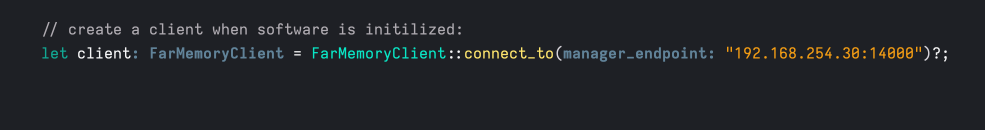
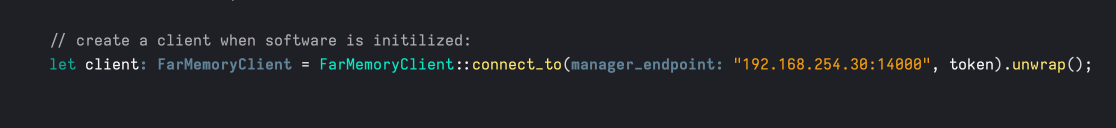
feat(thesis): describe using far memory objects

Changed region(s): [[0.0305, 0.1562, 0.9746, 0.5625]]

diff --git a/src/thesis/content/thesis/main_section/software/mod.rs b/src/thesis/content/thesis/main_section/software/mod.rs
@@ -107,12 +107,16 @@ MANAGER_ENDPOINT - адреса та порт (наприклад: 192.168.254.3
 додавання біліотеки у список залежностей. Для цього в Cargo.toml потрібно додати рядок far-memory = { git = \"https://github.com/nikitavbv/far-memory.git\" }. \
 Після цього, клієнт віддаленої памʼяті створюється викликом FarMemoryClient::new (приклад на зображенні нижче)."),
 
-        // TODO: image does not contain token
         Block::Image(ImageBlock::new("./images/client_init.png".to_owned(), "Ініціалізація клієнта віддаленої памʼяті".to_owned())),
 
-        // TODO: describe how to storage an object and get it back.
+        paragraph("Після цьго клієнт віддаленої памʼяті використовується програмним забезпеченням для зберігання даних у цьому класі памʼяті та \
+автоматичного переміщення даних між локальною та віддаленою памʼяттю. Наприклад, для переміщення обʼєкта у віддалену памʼять, розробник може використати \
+функцію FarMemoryClient::object<T>, яка повертає розумний показчик з яким можна взаємодіяти так само як і з самим обʼєктом, без внесення значних змін \
+у вихідний код програмного забезпечення (приклад на зображенні нижче)."),
 
-        // tell how users are expected to install and operate far memory. tell a bit about deployment as well. tell about options to use Kubernetes.
+        Block::Image(ImageBlock::new("./images/client_object.png".to_owned(), "Використання обʼєктів у віддаленій памʼяті".to_owned())),
+
+        // TODO: tell about using custom data structure implementations.
 
         Block::SubsectionHeader(SubsectionHeaderBlock::without_numbering("Висновки до розділу".to_owned())),
         Block::Placeholder(Box::new(paragraph("some text here")), "add some text here".to_owned()),

diff --git a/src/client/client.rs b/src/client/client.rs
@@ -8,7 +8,7 @@ use {
         backend::{FarMemoryBackend, SwapOutOperation, SwapOutOperationData},
         replacement::{ReplacementPolicy, MostRecentlyUsedReplacementPolicy, PreferRemoteSpansReplacementPolicy, ReplayReplacementPolicy},
         span::{SpanId, FarMemorySpan, LocalSpanData},
-        object::{ObjectId, ObjectRegistry, ObjectLocation},
+        object::{ObjectId, ObjectRegistry, ObjectLocation, FarMemory},
     },
 };
 
@@ -47,7 +47,7 @@ struct SwapOutResult {
 }
 
 impl FarMemoryClient {
-    pub fn connect_to(manager_endpoint: &str) -> Result<Self, String> {
+    pub fn connect_to(manager_endpoint: &str, token: &str) -> Result<Self, String> {
         unimplemented!()
     }
 
@@ -71,6 +71,12 @@ impl FarMemoryClient {
         }
     }
 
+    // higher level API
+    pub fn object<T>(&self, object: T) -> FarMemory<T> {
+        unimplemented!()
+    }
+
+    // lower level API
     pub fn use_manager(&mut self, manager: ManagerClient) {
         self.manager = Arc::new(Some(manager));
     }

diff --git a/src/demo/simple.rs b/src/demo/simple.rs
@@ -3,12 +3,38 @@ use {
     crate::client::{FarMemoryClient, FarMemoryVec, backend::disk::LocalDiskBackend},
 };
 
+struct SomeApplicationData {
+}
+
+impl SomeApplicationData {
+    pub fn new() -> Self {
+        Self {
+        }
+    }
+
+    pub fn do_something(&self) {
+    }
+}
+
 pub fn run_simple_demo() {
     info!("running a simple demo");
 
     let client = FarMemoryClient::new(Box::new(LocalDiskBackend::new()), 1000);
     let vec = FarMemoryVec::from_vec(client, vec![10.02, 9.02, 8.02, 7.02, 6.02, 5.02, 4.02, 3.02, 2.02, 1.02]);
-  
+
     let res = vec.to_local_vec();
     println!("res: {:?}", res);
+
+    let token = "";
+
+    // create a client when software is initilized:
+    let client = FarMemoryClient::connect_to("192.168.254.30:14000", token).unwrap();
+
+    let object = SomeApplicationData::new();
+    object.do_something();
+
+    let object = client.object(object);
+    object.do_something();
+
+    client.stop();
 }

diff --git a/src/client/object.rs b/src/client/object.rs
@@ -173,6 +173,14 @@ impl<T> FarMemory<T> {
     }
 }
 
+impl<T> Deref for FarMemory<T> {
+    type Target = FarMemoryLocal<T>;
+
+    fn deref(&self) -> &Self::Target {
+        unimplemented!()
+    }
+}
+
 pub struct FarMemoryLocal<T> {
     client: FarMemoryClient,
     object: ObjectId,
